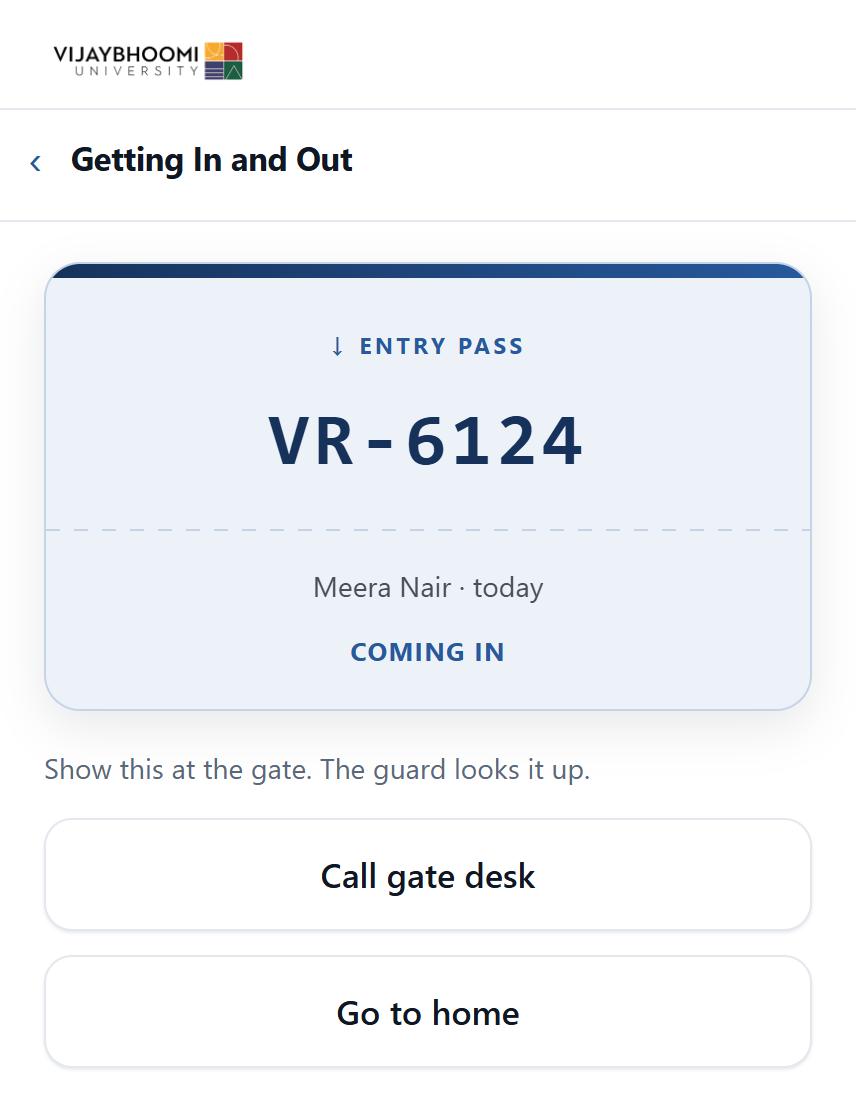
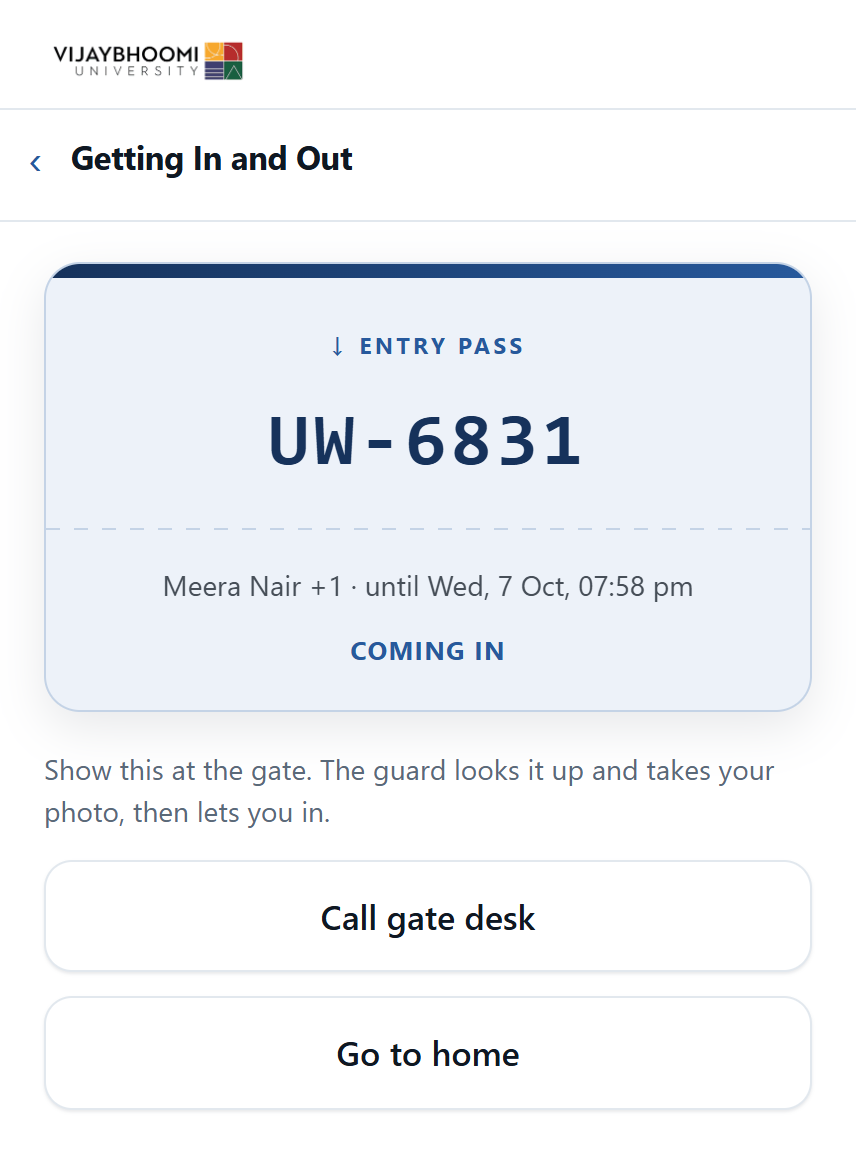
Show the current app in the README, and add the admin page
The form, waiting, pass and gate pictures showed an old version: four-digit
references, one code for entry and exit, and no photo step at the gate. New
pictures come from the working app with made-up visitors. The home picture
did not change.

diff --git a/README.md b/README.md
@@ -71,18 +71,26 @@ screen carries a "Call gate desk" button.
 
 The working app lives in [`application/`](application/). A visitor fills in the form. The server
 sends the details to an approver on WhatsApp. The approver replies `YES` or `NO`. The visitor sees
-the decision on the same page within three seconds. At the gate, a guard checks the code, records
-the entry and the exit, and the code then stops working.
+the decision on the same page a few seconds later. At the gate, a guard checks the entry code on the
+pass, takes a photo of the visitor and records the entry. On the way out, the pass shows a new exit
+code. After the exit, neither code works. The admin page lists every request.
+
+The pictures below come from the working app, with made-up visitors. The demo has only the visitor
+screens, with fixed codes and no server, so some details are different.
 
 <div align="center">
 
-|                                    Home                                    |                                                  Request a visit                                                   |                                                   Waiting on the approver                                                   |
-|:--------------------------------------------------------------------------:|:------------------------------------------------------------------------------------------------------------------:|:---------------------------------------------------------------------------------------------------------------------------:|
-| <img src="images/app-01-home.png" alt="The five section menu" width="250"> | <img src="images/app-02-form.png" alt="Reason chips, the student being visited, and a second visitor" width="250"> | <img src="images/app-03-waiting.png" alt="Not approved yet, with a tracker and the time the backup takes over" width="250"> |
+|                                    Home                                    |                                                Request a visit                                                 |                                                   Waiting on the approver                                                   |
+|:--------------------------------------------------------------------------:|:--------------------------------------------------------------------------------------------------------------:|:---------------------------------------------------------------------------------------------------------------------------:|
+| <img src="images/app-01-home.png" alt="The five section menu" width="250"> | <img src="images/app-02-form.png" alt="Reason chips, the student being visited, and one guest" width="250"> | <img src="images/app-03-waiting.png" alt="Not approved yet, with a tracker and the time the backup takes over" width="250"> |
 
-|                                   Approved, with the pass                                   |                                                         The gate desk                                                         |
-|:-------------------------------------------------------------------------------------------:|:-----------------------------------------------------------------------------------------------------------------------------:|
-| <img src="images/app-04-pass.png" alt="An entry pass showing the code VR-6124" width="250"> | <img src="images/app-05-gate.png" alt="The guard looks up a code and sees Inside now, with a Record exit button" width="250"> |
+|                                           Approved, with the pass                                            |                                                              The gate desk                                                              |
+|:------------------------------------------------------------------------------------------------------------:|:---------------------------------------------------------------------------------------------------------------------------------------:|
+| <img src="images/app-04-pass.png" alt="An entry pass showing the entry code UW-6831" width="250"> | <img src="images/app-05-gate.png" alt="The guard types the entry code and sees Let them in, and must take a photo before Record entry" width="250"> |
+
+|                                                                 The admin page                                                                  |
+|:-----------------------------------------------------------------------------------------------------------------------------------------------:|
+| <img src="images/app-06-admin.png" alt="Every request, newest first, with counts by status and the approver who decided each one" width="760"> |
 
 </div>
 
